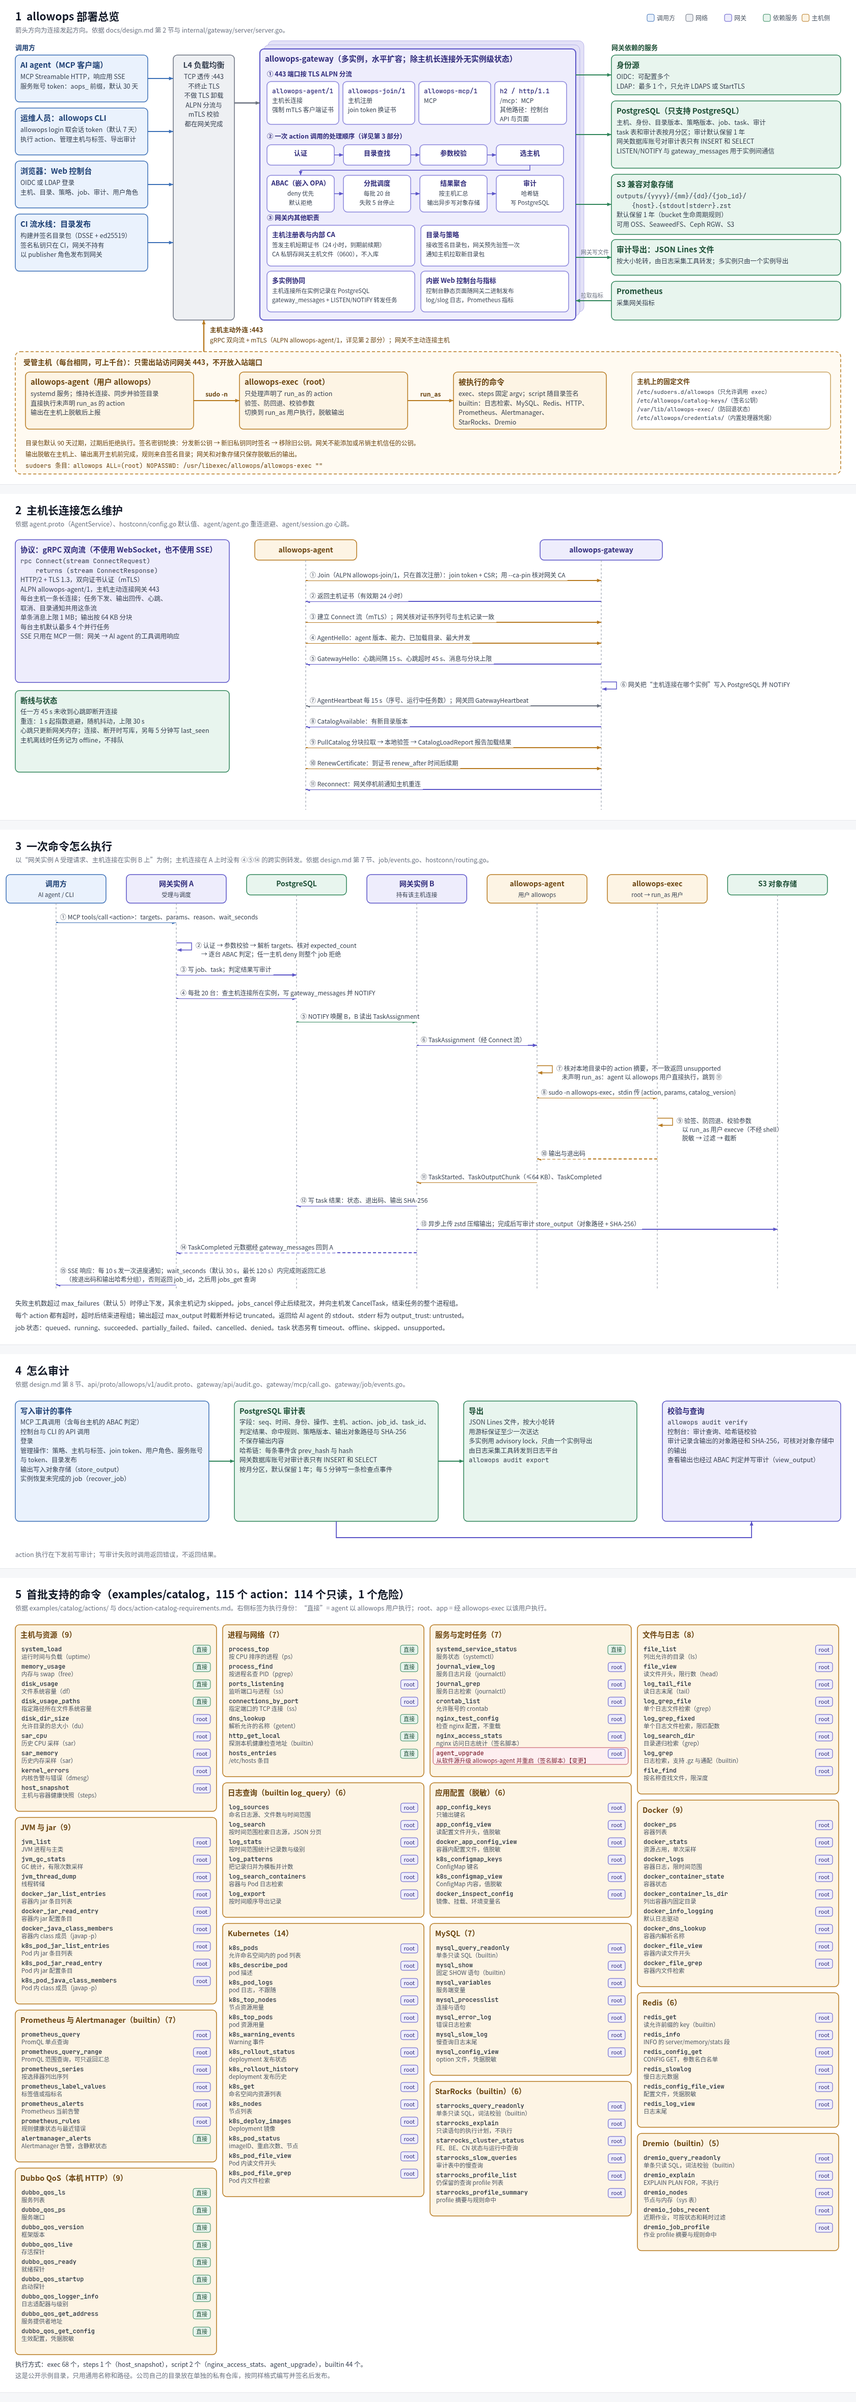
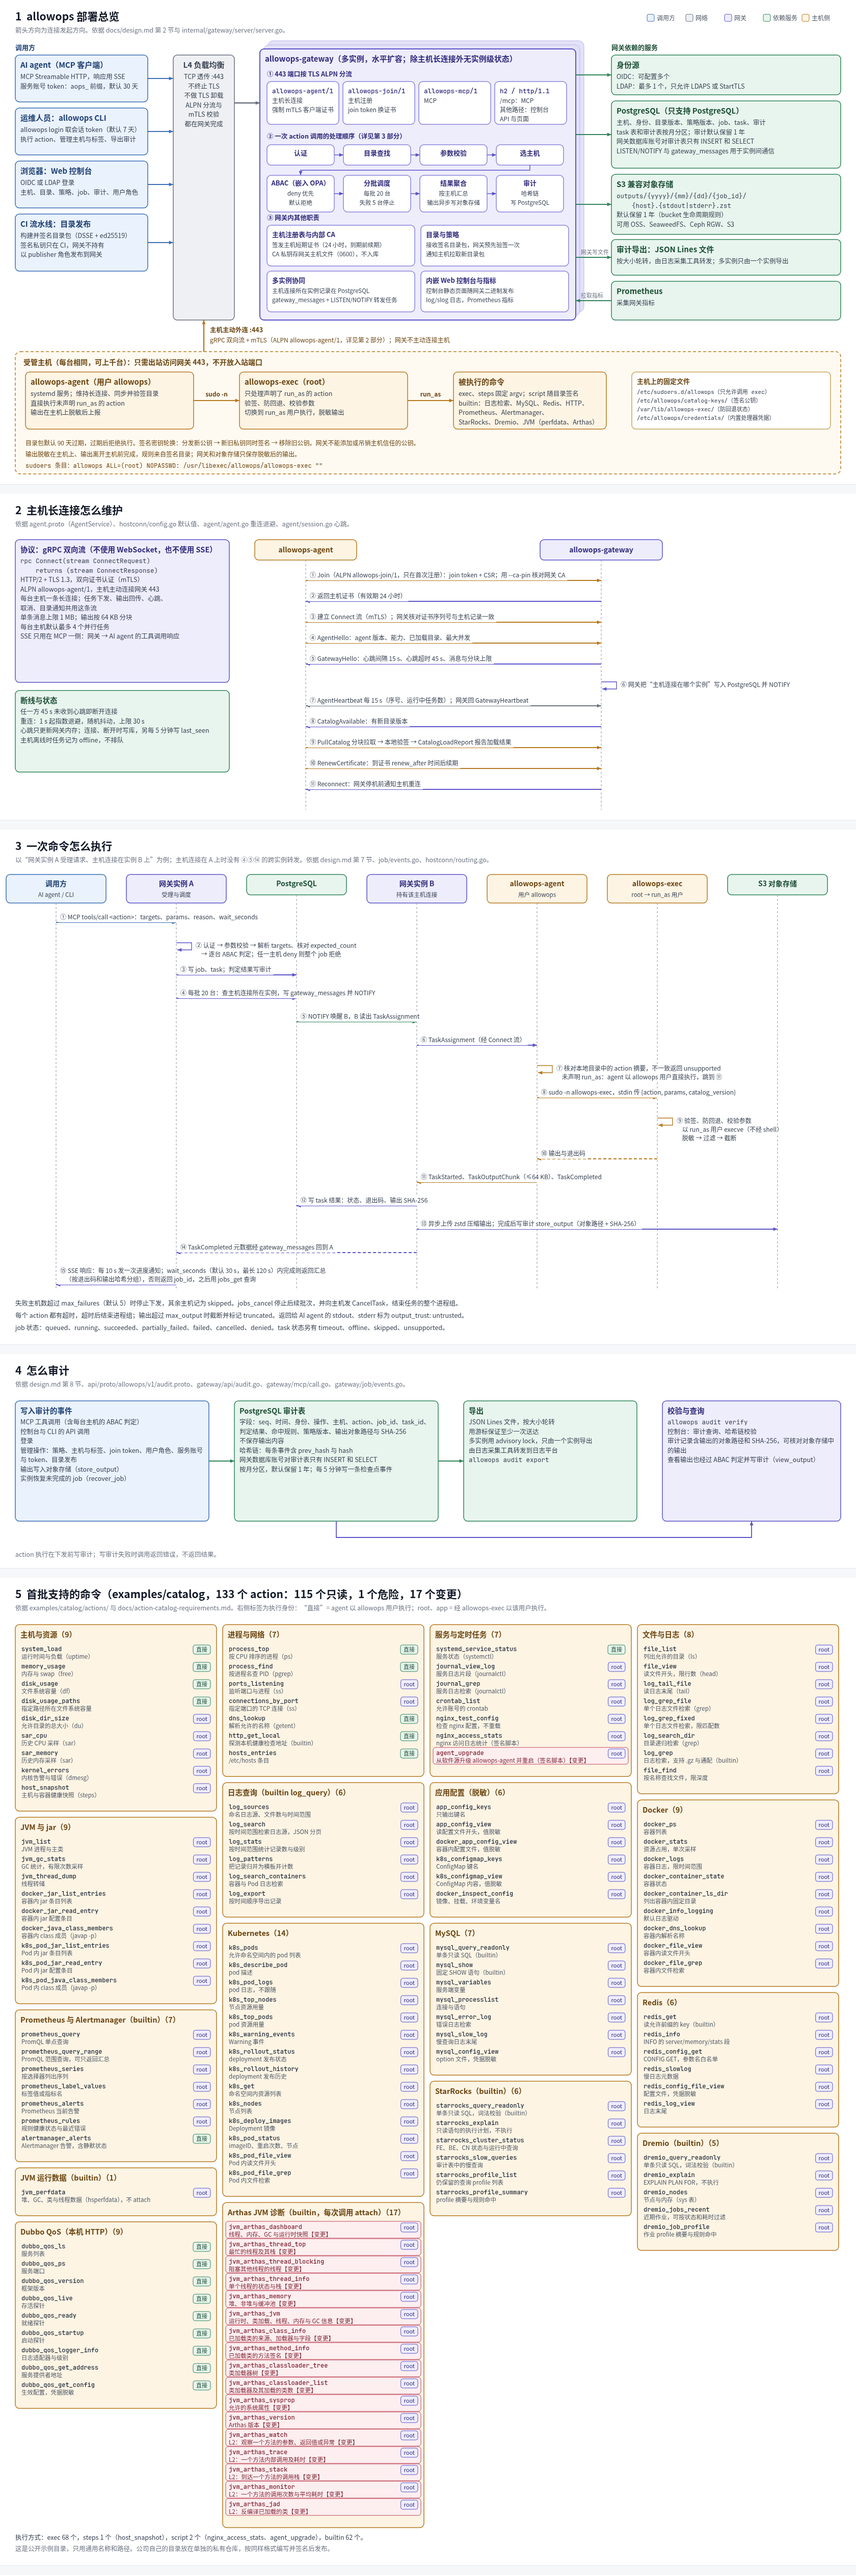
docs: list jvm_perfdata and jvm_arthas in the proto comment, the design and the diagram
The AgentCapabilities.builtins comment names the two handlers and the features
comment names max_targets; the Go and TypeScript code is regenerated with buf
v1.73.0 (comment-only diff). design.md lists the two builtins and that they run
through allowops-exec. The architecture diagram adds the jvm_perfdata group
(1 action) and the Arthas group (17 actions), counts 133 example actions (115
read, 1 dangerous, 17 write) and 62 builtin actions, and the PNG is
re-rendered with headless Chrome at 1680 px.

diff --git a/docs/architecture-diagram.html b/docs/architecture-diagram.html
@@ -179,7 +179,7 @@ label('主机主动外连 :443', 412, 652, { fs: 12.5, bold: true, color: C.host
 label('gRPC 双向流 + mTLS（ALPN allowops-agent/1，详见第 2 部分）；网关不主动连接主机', 412, 672, { fs: 12, color: '#6b4511' });
 const ag = box(50, 730, 330, 112, C.host, 'allowops-agent（用户 allowops）', ['systemd 服务；维持长连接、同步并验签目录', '直接执行未声明 run_as 的 action', '输出在主机上脱敏后上报']);
 const ex = box(470, 730, 330, 112, C.host, 'allowops-exec（root）', ['只处理声明了 run_as 的 action', '验签、防回退、校验参数', '切换到 run_as 用户执行，脱敏输出']);
-const tg = box(890, 730, 300, 112, C.host, '被执行的命令', ['exec、steps 固定 argv；script 随目录签名', 'builtin：日志检索、MySQL、Redis、HTTP、', 'Prometheus、Alertmanager、', 'StarRocks、Dremio']);
+const tg = box(890, 730, 300, 112, C.host, '被执行的命令', ['exec、steps 固定 argv；script 随目录签名', 'builtin：日志检索、MySQL、Redis、HTTP、', 'Prometheus、Alertmanager、', 'StarRocks、Dremio、JVM（perfdata、Arthas）']);
 arrow([[ag.r, 786], [ex.x, 786]], { color: C.host.stroke }); label('sudo -n', 425, 778, { fs: 12, bold: true, color: C.host.title, align: 'center' });
 arrow([[ex.r, 786], [tg.x, 786]], { color: C.host.stroke }); label('run_as', 845, 778, { fs: 12, bold: true, color: C.host.title, align: 'center' });
 box(1240, 730, 390, 112, C.file, '主机上的固定文件', ['`/etc/sudoers.d/allowops（只允许调用 exec）', '`/etc/allowops/catalog-keys/（签名公钥）', '`/var/lib/allowops-exec/（防回退状态）', '`/etc/allowops/credentials/（内置处理器凭据）'], { ts: 13, fs: 11 });
@@ -331,6 +331,10 @@ const groups = [
     ['starrocks_query_readonly', '单条只读 SQL，词法校验（builtin）', 'root'], ['starrocks_explain', '只读语句的执行计划，不执行', 'root'], ['starrocks_cluster_status', 'FE、BE、CN 状态与运行中查询', 'root'], ['starrocks_slow_queries', '审计表中的慢查询', 'root'], ['starrocks_profile_list', '仍保留的查询 profile 列表', 'root'], ['starrocks_profile_summary', 'profile 摘要与规则命中', 'root']]],
   ['Dremio（builtin）', [
     ['dremio_query_readonly', '单条只读 SQL，词法校验（builtin）', 'root'], ['dremio_explain', 'EXPLAIN PLAN FOR，不执行', 'root'], ['dremio_nodes', '节点与内存（sys 表）', 'root'], ['dremio_jobs_recent', '近期作业，可按状态和耗时过滤', 'root'], ['dremio_job_profile', '作业 profile 摘要与规则命中', 'root']]],
+  ['JVM 运行数据（builtin）', [
+    ['jvm_perfdata', '堆、GC、类与线程数据（hsperfdata），不 attach', 'root']]],
+  ['Arthas JVM 诊断（builtin，每次调用 attach）', [
+    ['jvm_arthas_dashboard', '线程、内存、GC 与运行时快照', 'root', true], ['jvm_arthas_thread_top', '最忙的线程及其栈', 'root', true], ['jvm_arthas_thread_blocking', '阻塞其他线程的线程', 'root', true], ['jvm_arthas_thread_info', '单个线程的状态与栈', 'root', true], ['jvm_arthas_memory', '堆、非堆与缓冲池', 'root', true], ['jvm_arthas_jvm', '运行时、类加载、线程、内存与 GC 信息', 'root', true], ['jvm_arthas_class_info', '已加载类的来源、加载器与字段', 'root', true], ['jvm_arthas_method_info', '已加载类的方法签名', 'root', true], ['jvm_arthas_classloader_tree', '类加载器树', 'root', true], ['jvm_arthas_classloader_list', '类加载器及其加载的类数', 'root', true], ['jvm_arthas_sysprop', '允许的系统属性', 'root', true], ['jvm_arthas_version', 'Arthas 版本', 'root', true], ['jvm_arthas_watch', 'L2：观察一个方法的参数、返回值或异常', 'root', true], ['jvm_arthas_trace', 'L2：一个方法内部调用及耗时', 'root', true], ['jvm_arthas_stack', 'L2：到达一个方法的调用栈', 'root', true], ['jvm_arthas_monitor', 'L2：一个方法的调用次数与平均耗时', 'root', true], ['jvm_arthas_jad', 'L2：反编译已加载的类', 'root', true]]],
   ['Dubbo QoS（本机 HTTP）', [
     ['dubbo_qos_ls', '服务列表', '直接'], ['dubbo_qos_ps', '服务端口', '直接'], ['dubbo_qos_version', '框架版本', '直接'], ['dubbo_qos_live', '存活探针', '直接'], ['dubbo_qos_ready', '就绪探针', '直接'], ['dubbo_qos_startup', '启动探针', '直接'], ['dubbo_qos_logger_info', '日志适配器与级别', '直接'], ['dubbo_qos_get_address', '服务提供者地址', '直接'], ['dubbo_qos_get_config', '生效配置，凭据脱敏', '直接']]],
 ];
@@ -344,7 +348,7 @@ groups.forEach(([title, items]) => {
 });
 const footY = Math.max(...colY) + 12;
 canvas('actions', footY + 50);
-heading('5', '首批支持的命令（examples/catalog，115 个 action：114 个只读，1 个危险）', '依据 examples/catalog/actions/ 与 docs/action-catalog-requirements.md。右侧标签为执行身份：“直接”= agent 以 allowops 用户执行；root、app = 经 allowops-exec 以该用户执行。');
+heading('5', '首批支持的命令（examples/catalog，133 个 action：115 个只读，1 个危险，17 个变更）', '依据 examples/catalog/actions/ 与 docs/action-catalog-requirements.md。右侧标签为执行身份：“直接”= agent 以 allowops 用户执行；root、app = 经 allowops-exec 以该用户执行。');
 groups.forEach(([title, items], i) => {
   const [x, y, gh] = place[i];
   box(x, y, gw4, gh, C.host, `${title}（${items.length}）`, [], { ts: 14.5 });
@@ -359,7 +363,7 @@ groups.forEach(([title, items], i) => {
     label(who, x + gw4 - tw / 2 - 12, yy + 1, { fs: 11, color: tc.title, align: 'center' });
   });
 });
-label('执行方式：exec 68 个，steps 1 个（host_snapshot），script 2 个（nginx_access_stats、agent_upgrade），builtin 44 个。', 30, footY, { fs: 12.5 });
+label('执行方式：exec 68 个，steps 1 个（host_snapshot），script 2 个（nginx_access_stats、agent_upgrade），builtin 62 个。', 30, footY, { fs: 12.5 });
 label('这是公开示例目录，只用通用名称和路径。公司自己的目录放在单独的私有仓库，按同样格式编写并签名后发布。', 30, footY + 22, { fs: 12.5, color: '#6b7280' });
 </script>
 </body>

diff --git a/web/src/gen/allowops/v1/agent_pb.ts b/web/src/gen/allowops/v1/agent_pb.ts
@@ -412,7 +412,7 @@ export type AgentCapabilities = Message<"allowops.v1.AgentCapabilities"> & {
   executionModes: string[];
 
   /**
-   * log_search,log_query,mysql_query,redis_command,http_get,prometheus_query,alertmanager_alerts,starrocks_query,dremio_query,starrocks_diag,dremio_diag.
+   * log_search,log_query,mysql_query,redis_command,http_get,prometheus_query,alertmanager_alerts,starrocks_query,dremio_query,starrocks_diag,dremio_diag,jvm_perfdata,jvm_arthas.
    *
    * @generated from field: repeated string builtins = 4;
    */
@@ -426,7 +426,7 @@ export type AgentCapabilities = Message<"allowops.v1.AgentCapabilities"> & {
   outputFilters: string[];
 
   /**
-   * Additional signed-catalog features, e.g. exec_fallbacks and allow_interpreter.
+   * Additional signed-catalog features, e.g. exec_fallbacks, allow_interpreter and max_targets.
    *
    * @generated from field: repeated string features = 6;
    */
@@ -457,7 +457,7 @@ export type AgentCapabilitiesJson = {
   executionModes?: string[];
 
   /**
-   * log_search,log_query,mysql_query,redis_command,http_get,prometheus_query,alertmanager_alerts,starrocks_query,dremio_query,starrocks_diag,dremio_diag.
+   * log_search,log_query,mysql_query,redis_command,http_get,prometheus_query,alertmanager_alerts,starrocks_query,dremio_query,starrocks_diag,dremio_diag,jvm_perfdata,jvm_arthas.
    *
    * @generated from field: repeated string builtins = 4;
    */
@@ -471,7 +471,7 @@ export type AgentCapabilitiesJson = {
   outputFilters?: string[];
 
   /**
-   * Additional signed-catalog features, e.g. exec_fallbacks and allow_interpreter.
+   * Additional signed-catalog features, e.g. exec_fallbacks, allow_interpreter and max_targets.
    *
    * @generated from field: repeated string features = 6;
    */

diff --git a/gen/allowops/v1/agent.pb.go b/gen/allowops/v1/agent.pb.go
@@ -598,11 +598,11 @@ type AgentCapabilities struct {
 	ParameterTypes []string `protobuf:"bytes,2,rep,name=parameter_types,json=parameterTypes,proto3" json:"parameter_types,omitempty"`
 	// exec,steps,script,builtin.
 	ExecutionModes []string `protobuf:"bytes,3,rep,name=execution_modes,json=executionModes,proto3" json:"execution_modes,omitempty"`
-	// log_search,log_query,mysql_query,redis_command,http_get,prometheus_query,alertmanager_alerts,starrocks_query,dremio_query,starrocks_diag,dremio_diag.
+	// log_search,log_query,mysql_query,redis_command,http_get,prometheus_query,alertmanager_alerts,starrocks_query,dremio_query,starrocks_diag,dremio_diag,jvm_perfdata,jvm_arthas.
 	Builtins []string `protobuf:"bytes,4,rep,name=builtins,proto3" json:"builtins,omitempty"`
 	// match,exclude,tail,head,count.
 	OutputFilters []string `protobuf:"bytes,5,rep,name=output_filters,json=outputFilters,proto3" json:"output_filters,omitempty"`
-	// Additional signed-catalog features, e.g. exec_fallbacks and allow_interpreter.
+	// Additional signed-catalog features, e.g. exec_fallbacks, allow_interpreter and max_targets.
 	Features      []string `protobuf:"bytes,6,rep,name=features,proto3" json:"features,omitempty"`
 	unknownFields protoimpl.UnknownFields
 	sizeCache     protoimpl.SizeCache

diff --git a/docs/design.md b/docs/design.md
@@ -146,9 +146,11 @@ redact:                                # 可选，覆盖全局脱敏规则
 | StarRocks 固定诊断 | `builtin: starrocks_diag` | 连接方式、凭据和 TSV 输出同 `starrocks_query`；调用方选择 `op`：集群状态、运行中查询、审计表慢查询、profile 列表、`ANALYZE PROFILE`、profile 摘要（含 SR-* 规则命中）；语句全部由处理器生成，账号需要 SYSTEM 级 OPERATE，与 query 账号分开；始终需要 allowops-exec。可选 `profile_run` 执行调用方的 SELECT 并返回摘要，默认关闭，先经 sqlguard |
 | Dremio 只读查询 | `builtin: dremio_query` | 通过 REST API v3 连接（`url: http(s)://host:port`），每次调用登录、提交作业、读取第一页结果（最多 500 行）、取消并注销；凭据在主机 `/etc/allowops/credentials/`（root，0600）；调用方提供一条 SELECT、SHOW、DESCRIBE 或 EXPLAIN PLAN FOR；始终需要 allowops-exec。Dremio 24.1 社区版没有权限边界（所有账号都是管理员），sqlguard 词法校验是 Dremio 一侧唯一的写入限制（决定 D6）；数据源一侧由数据源账号的只读权限限制；另有 `max_rows`、`max_bytes`、`timeout` 上限 |
 | Dremio 固定诊断 | `builtin: dremio_diag` | 连接方式和凭据同 `dremio_query`；调用方选择 `op`：节点与内存、作业列表、单个作业、作业 profile 摘要（含 DR-* 规则命中）、反射；请求由处理器生成，不接受 SQL、不经过 sqlguard，调用方的值只在通过固定格式或范围校验后进入请求；`builtin_config.ops` 可固定 op；始终需要 allowops-exec。同样没有权限边界，该处理器的写入限制是请求固定 |
+| JVM 运行数据（只读） | `builtin: jvm_perfdata` | 读取 systemd 单元或 Docker 容器内 JVM 的 hsperfdata（堆、GC、类、线程）；不 attach，不发信号，不写目标；目标由签名配置中的单元名，或容器名加主类确定，调用方只选目标名；始终需要 allowops-exec |
+| Arthas JVM 诊断 | `builtin: jvm_arthas` | 每个 action 一条固定的 Arthas 命令：L1 读取 JVM 状态，不增强类；L2 对一个类的一个方法最多增强 30 秒，或反编译一个类。每次调用 attach、执行、停止 Arthas；`risk: write`、`run_as: root`、`max_targets: 1`；Arthas 文件在目标挂载命名空间内按签名配置中的 SHA-256 校验；只有安装了 `allowops-arthas` 软件包的主机支持。计划见 `java-diagnostics-arthas-plan.md`，威胁分析见 `SECURITY.md` |
 
 - 内置处理器的参数 schema 由 allowops 定义，目录只能通过 `builtin_config` 收紧。需要读取主机凭据或声明 `run_as` 的内置处理器在 allowops-exec 中执行。
-- `mysql_query`、`redis_command`、`starrocks_query`、`starrocks_diag`、`dremio_query`、`dremio_diag` 必须读取 root 凭据，`RequiresExec` 为真，未声明 `run_as` 时也经 allowops-exec 以 root 执行。`starrocks_*` 和 `dremio_*` 的 SQL 校验是词法级白名单（`internal/builtin/sqlguard`，规则见 `builtin-sqlguard.md`），不单独保证只读；各处理器的字段、默认值和上限见 `builtin-starrocks.md`、`builtin-dremio.md`、`builtin-config.md`。
+- `mysql_query`、`redis_command`、`starrocks_query`、`starrocks_diag`、`dremio_query`、`dremio_diag` 必须读取 root 凭据，`RequiresExec` 为真，未声明 `run_as` 时也经 allowops-exec 以 root 执行。`jvm_perfdata` 读取其他用户的进程和容器根文件系统，`jvm_arthas` 以 root attach 并进入目标的命名空间，二者同样经 allowops-exec 以 root 执行。`starrocks_*` 和 `dremio_*` 的 SQL 校验是词法级白名单（`internal/builtin/sqlguard`，规则见 `builtin-sqlguard.md`），不单独保证只读；各处理器的字段、默认值和上限见 `builtin-starrocks.md`、`builtin-dremio.md`、`builtin-config.md`。
 
 ## 5. 主机端
 
